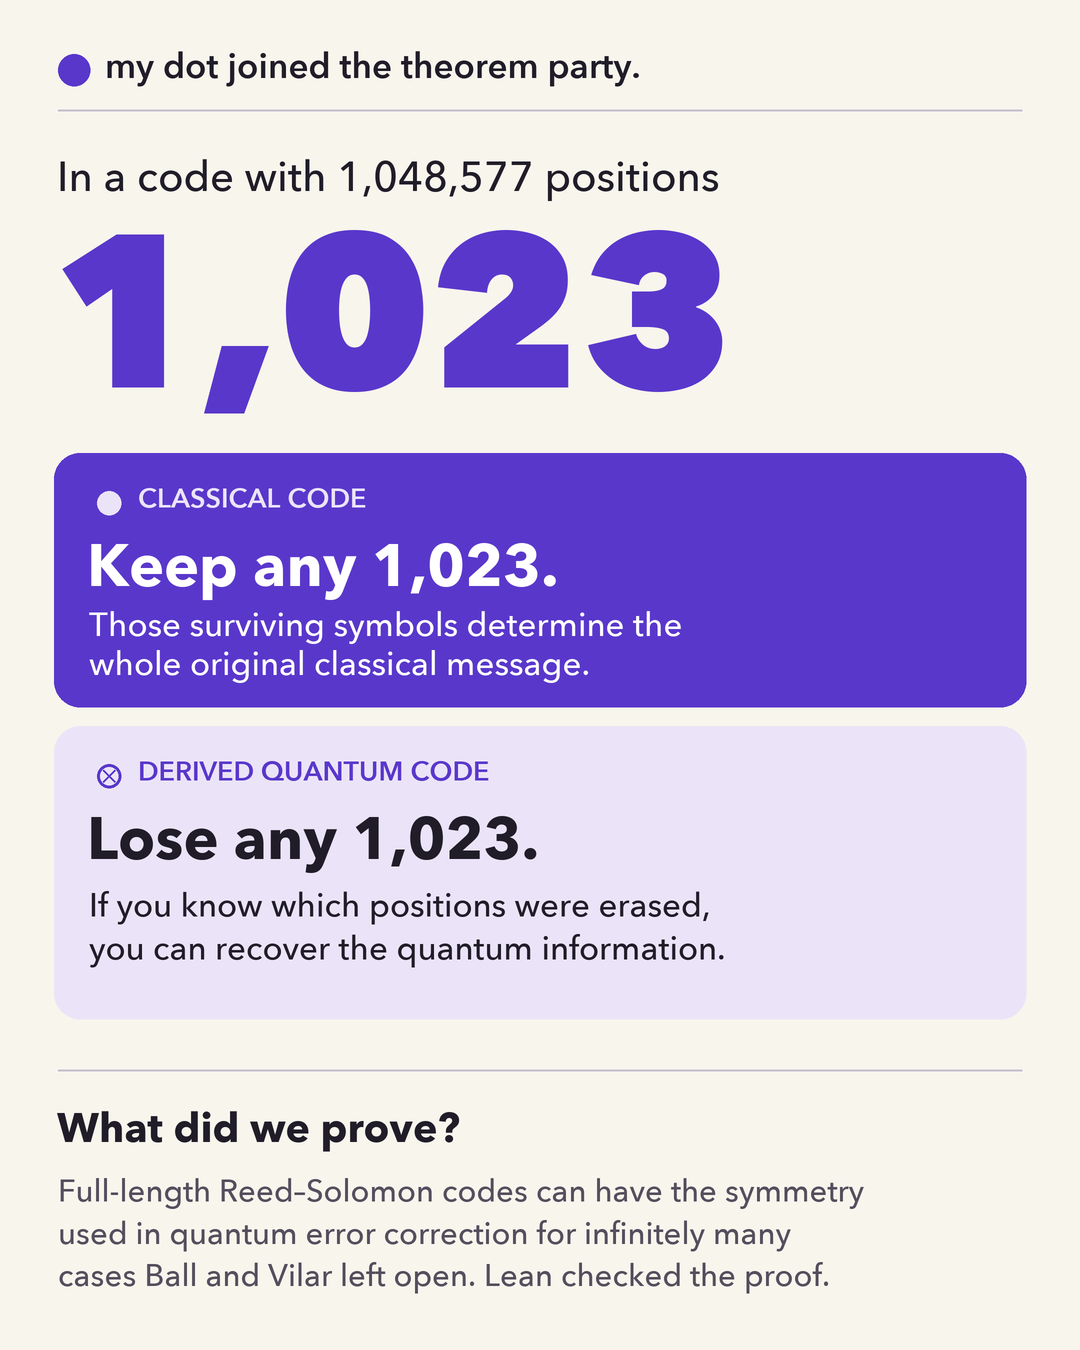
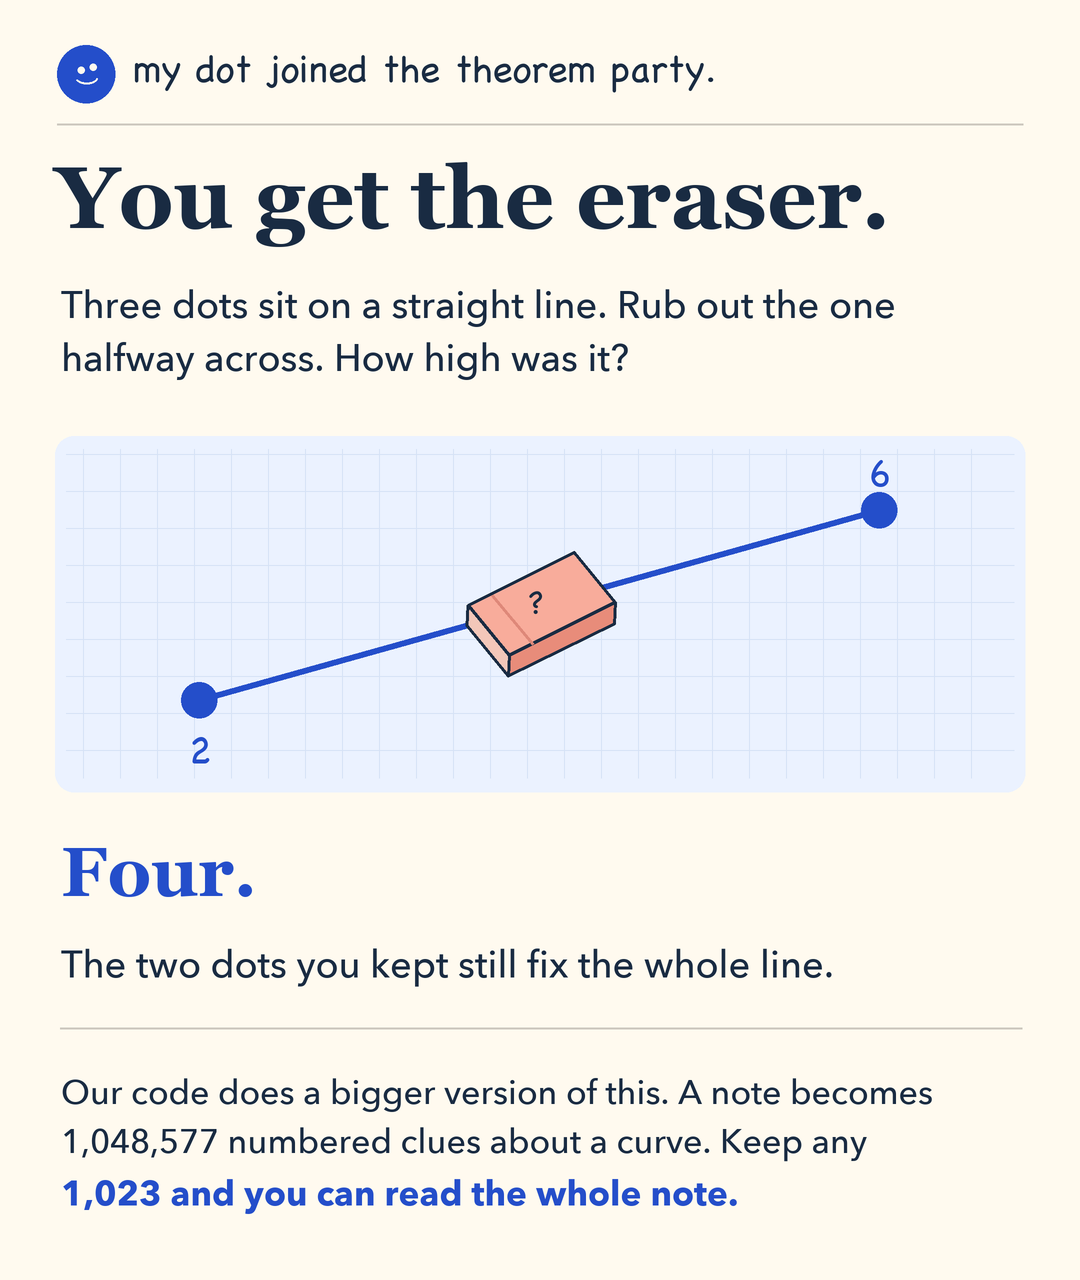
Explain the coding theorem with an eraser puzzle and flagged signals

Changed region(s): [[0.0306, 0.0312, 0.9778, 0.7812], [0.0306, 0.8125, 0.8556, 0.9688]]

diff --git a/lean-qutrit/Qmds/explainer/x-thread.md b/lean-qutrit/Qmds/explainer/x-thread.md
@@ -2,41 +2,47 @@
 
 ## Opening post
 
-my dot joined the theorem party. ●
+my dot joined the theorem party. you get the eraser. ●
 
-I’ll encode a message in 1,048,577 symbols. You pick 1,047,554 to erase.
+I turn a note into 1,048,577 numbered clues. You wipe out all but 1,023. You pick which ones survive.
 
-I can recover the whole classical message from the 1,023 you left. Here’s the quantum coding question hiding in that trick.
+Hand me those scraps and I can read the whole note. Want to see how? Erase a dot.
 
 ## Reply 1
 
-Try it with three numbers. I write 4, 7 and their sum, 11. Cover any one and the other two give it back.
+Three dots on a straight line. The left one is at height 2, the right one at 6. Rub out the dot halfway across. How high was it?
 
-Reed–Solomon codes do this with polynomials. Any 1,023 surviving symbols, together with their positions, pin down the polynomial carrying our message.
+Four. The two dots you kept still fix the whole line. Our note lives in a more complicated curve. Any 1,023 numbered clues pin it down.
 
 ## Reply 2
 
-The recovery trick is classic. The hard part was making the code obey an extra symmetry called Hermitian self-orthogonality. It lets you build a quantum error-correcting code.
+Now imagine trying to send a quantum message. You can photocopy a paper note for safekeeping. Physics won’t let you make a perfect spare copy of an unknown quantum message.
 
-We found a construction for infinitely many cases Ball and Vilar left open. https://arxiv.org/abs/2106.10180
+So you spread the information across many carriers. Losing some of them can leave the message intact.
 
 ## Reply 3
 
-The first quantum code stores 1,046,531 quantum symbols in 1,048,577 systems with 1,024 levels each. Lose any 1,023 systems and it can recover the quantum information if you know which ones vanished.
+The missing-dot trick is old. Ball and Vilar asked whether this particular code design could also obey the extra rules of quantum error correction at certain sizes.
 
-That reaches the theoretical limit for this length and message size.
+We found a recipe for infinitely many sizes they left open. Lean, a program that checks math proofs, verified it.
 
 ## Reply 4
 
-Lean checked the classical construction for every q = 2^h with h = 10, 30, 70 or 90 modulo 100. At q = 1,024 we also tested the key polynomial at all 1,048,576 field elements. Zero roots.
+Picture a receiver that knows which signals never arrived. With our first quantum code, any 1,023 of its 1,048,577 signals can vanish and the receiver can still recover the message.
 
-Other even exponents remain open in the work we reviewed. Earlier references welcome.
+That’s the most losses a code of this size can guarantee while carrying this much information.
 
 ## Image alt text
 
-One construction at 1,048,577 positions gives two different guarantees. Keep any 1,023 symbols of the classical code to recover the original message. In the derived quantum code, lose any 1,023 positions and recover the encoded quantum information when the erased positions are known. The classical construction is Lean-verified for infinitely many cases of Ball and Vilar’s question.
+**Opening image.** Three evenly spaced pencil marks lie on a straight line. The left mark is at height 2 and the right mark is at 6. An eraser covers the middle mark. Its height must be 4 because the surviving dots determine the line. In the classical code, any 1,023 numbered clues out of 1,048,577 determine the original note.
+
+**Quantum image.** An illustrated strip of numbered signal slots has two flagged gaps. It illustrates how a receiver can know which signals went missing. The first quantum code can recover from any 1,023 missing carriers at known positions. The underlying construction works for infinitely many of the sizes in Ball and Vilar’s question.
 
 ## Evidence for the author
+
+The straight line is a toy example. In the classical code, the message is a list of 1,023 coefficients. Each numbered clue is a scaled value of its polynomial, except for one special clue that gives the top coefficient. The receiver knows the clue numbers and scales. Any 1,023 intact clues uniquely determine the coefficient list. [Encoder and recovery theorem](../FullLength.lean)
+
+A perfect spare copy of an arbitrary unknown quantum state is impossible. The quantum code distributes the information across many systems. It is a mathematical design for handling flagged losses. [Original no-cloning paper](https://doi.org/10.1038/299802a0)
 
 Lean proves the classical encoder’s recovery guarantee and Hermitian self-orthogonality. The quantum parameters follow from the published Hermitian stabilizer construction. The quantum distance is 1,024. A code of that distance corrects 1,023 erasures at known locations, and this code meets the quantum Singleton bound. [Formal theorem](../FullLength.lean) · [Independent first-case check](../check_order25.py) · [Ball and Vilar, sections II and VII](https://arxiv.org/abs/2106.10180) · [Quantum Singleton bound and erasures](https://arxiv.org/abs/2010.07902)
 
